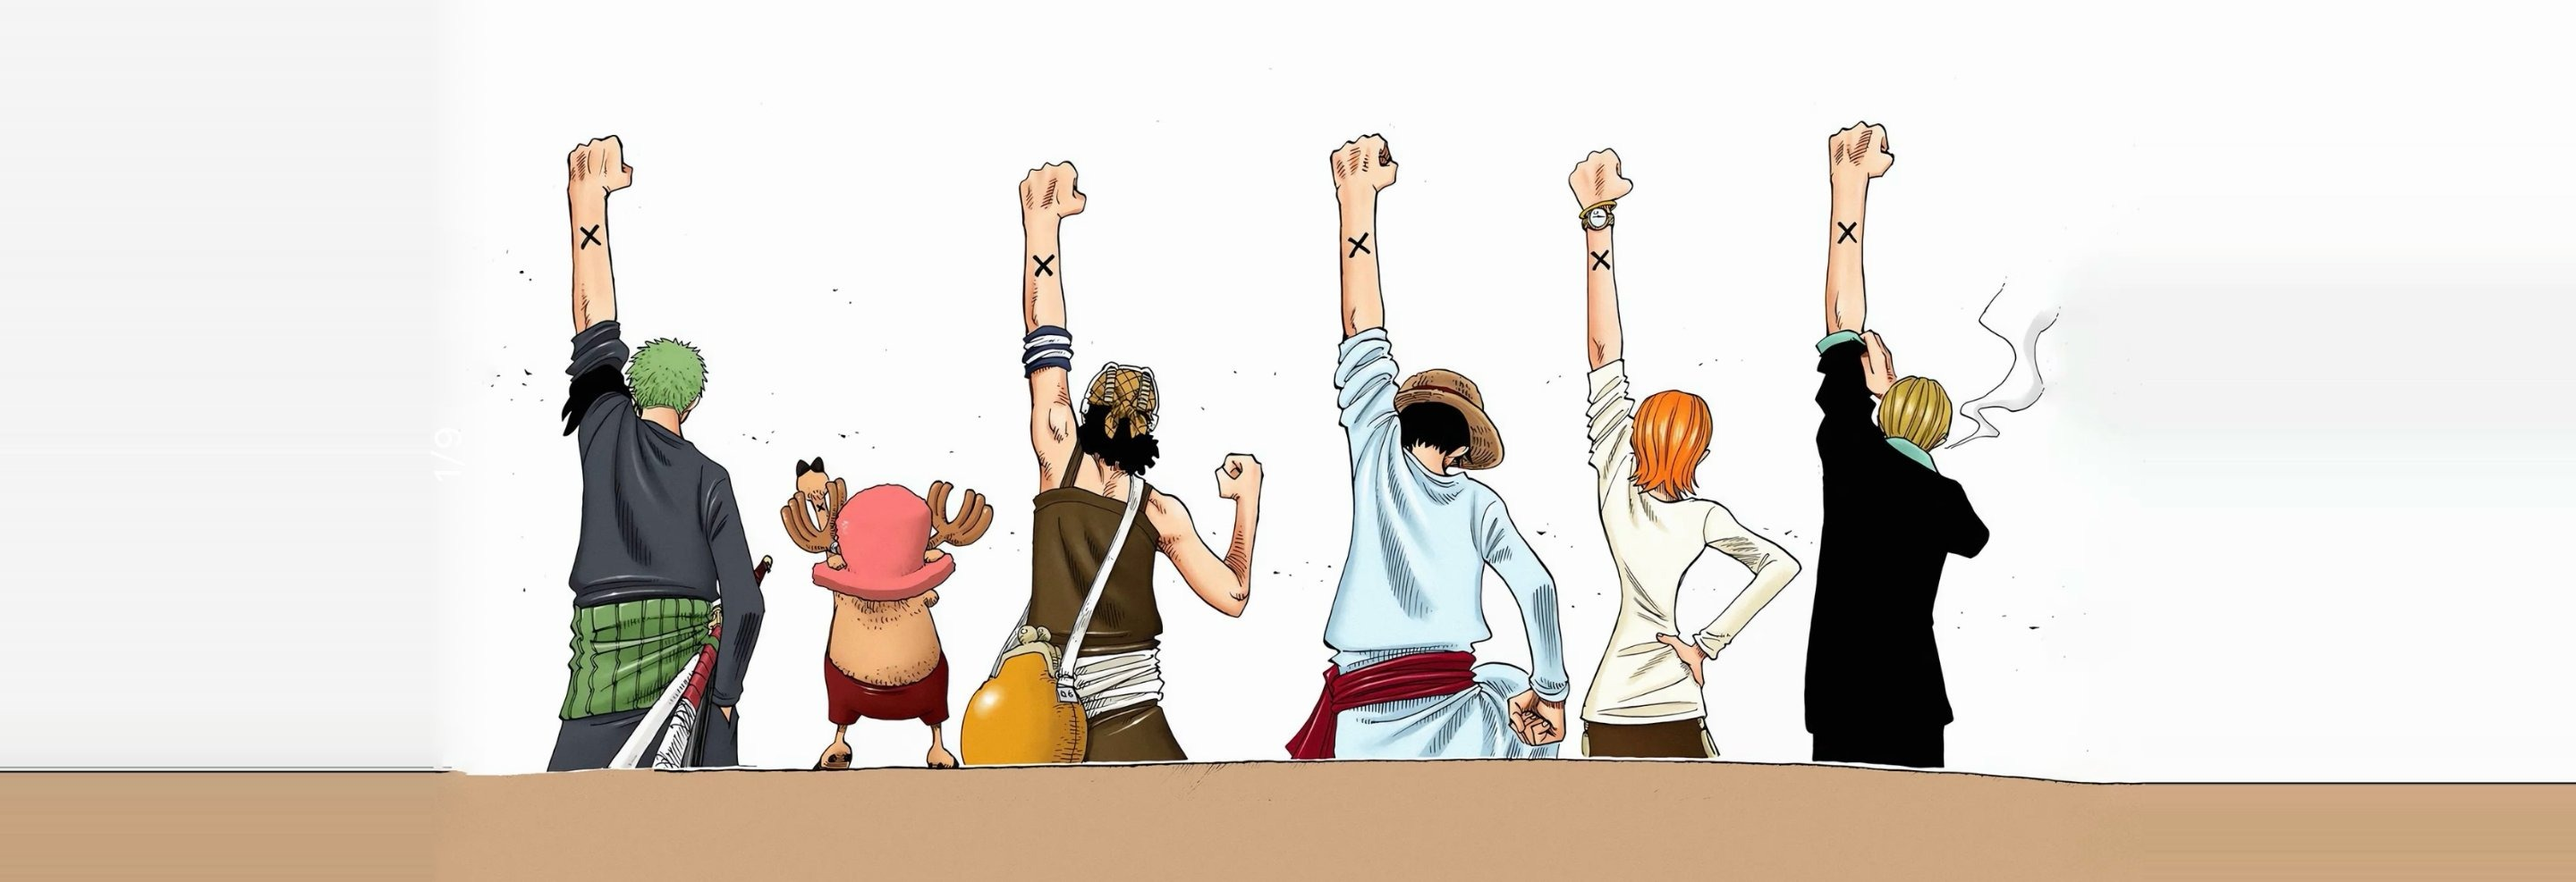
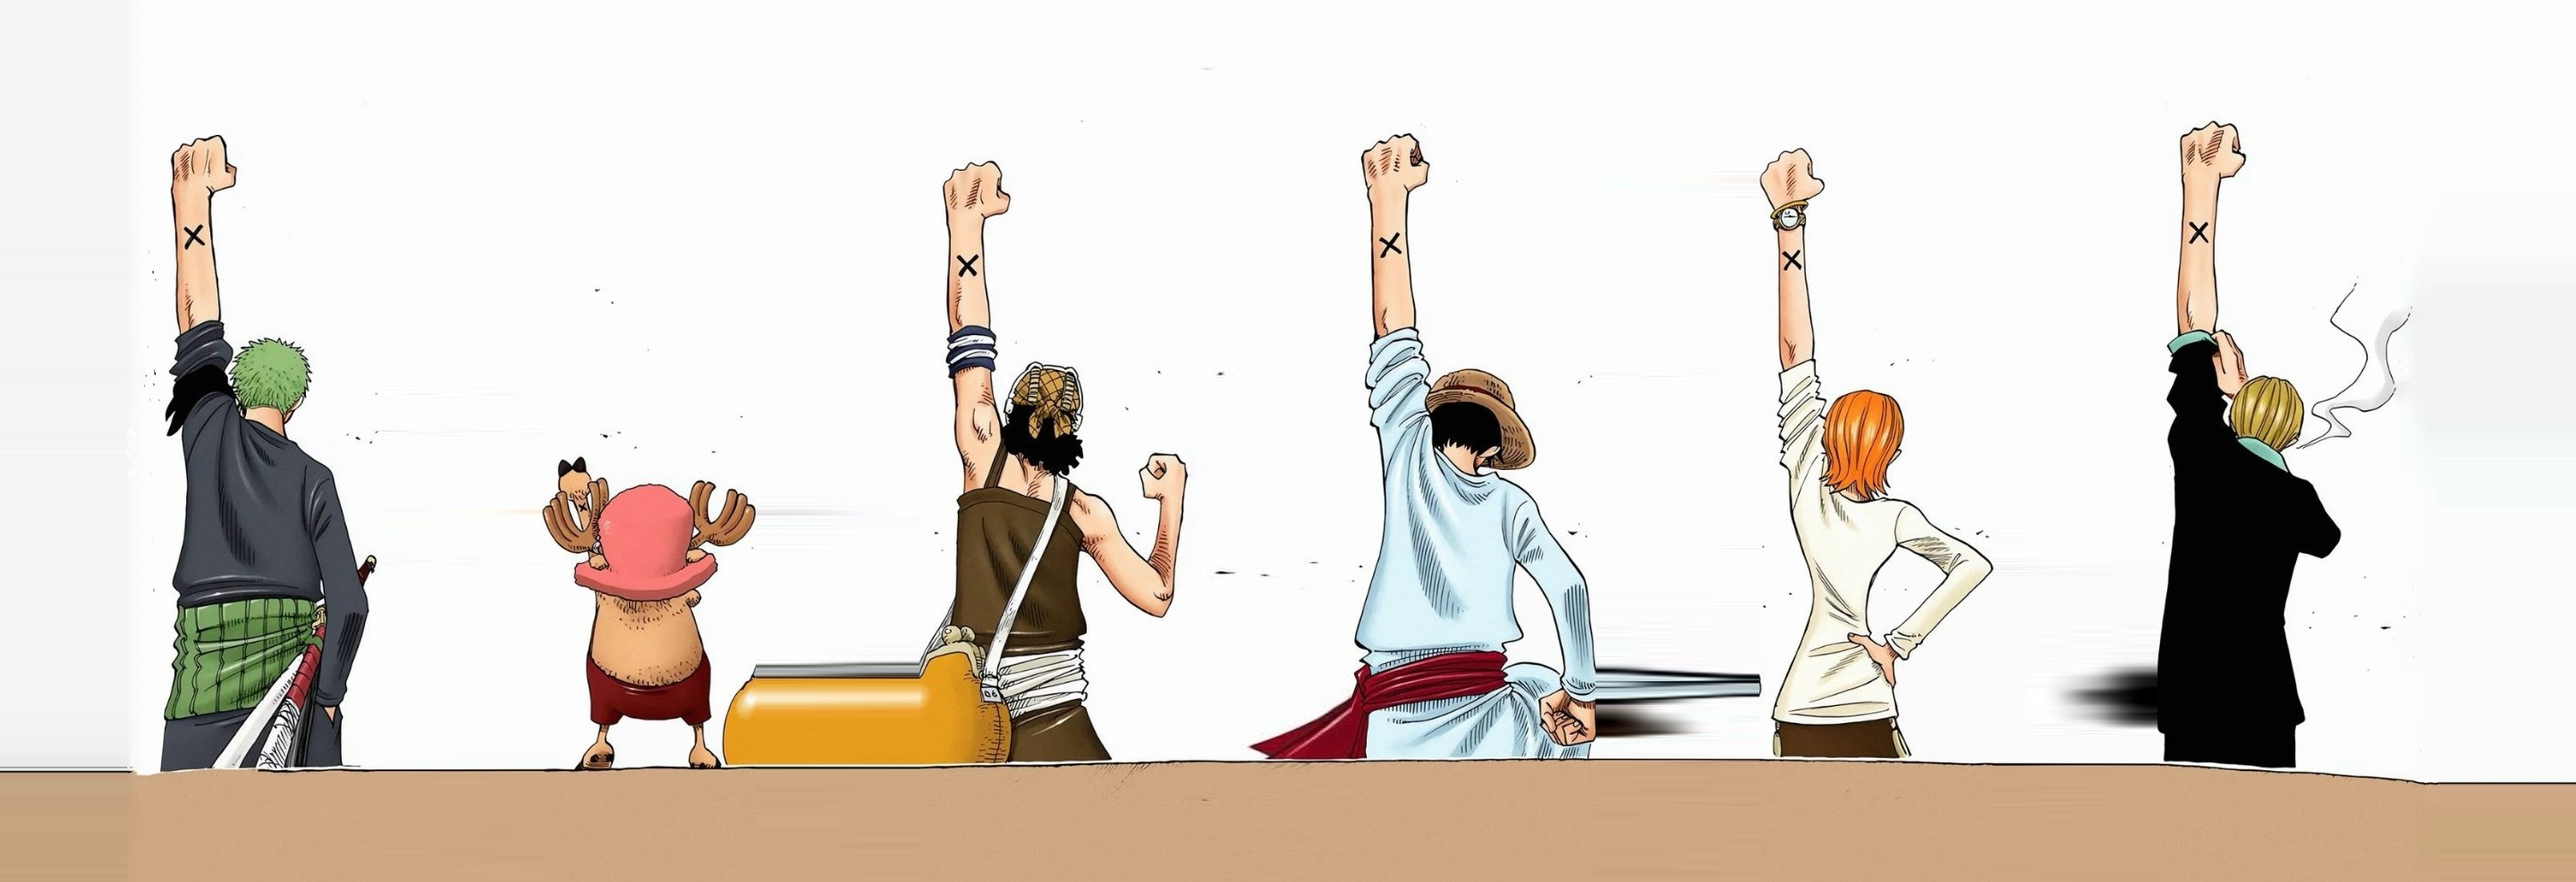
v48: 底部海贼王图人物均匀分开，减少两侧留白

Changed region(s): [[0.0312, 0.1216, 0.9375, 0.9119], [0.7812, 0.3647, 0.8125, 0.3951]]

diff --git a/dist/sw.js b/dist/sw.js
@@ -1,6 +1,6 @@
 // 离线缓存：在线时优先获取最新版；断网时回退到本地缓存
-// v47: 社媒内容移除抖音账号分析的待补充占位数据行
-const CACHE = 'wz-desk-v47';
+// v48: 底部海贼王图人物均匀分开，减少两侧留白
+const CACHE = 'wz-desk-v48';
 const FILES = ['./', './index.html', './icon.png', './manifest.webmanifest', './content.js', './en_practice.js',
   './assets/luffy.png', './assets/robin.png', './assets/zoro.png', './assets/sabo.png', './assets/garp.png',
   './assets/bottom_crew.jpg',

diff --git a/sw.js b/sw.js
@@ -1,6 +1,6 @@
 // 离线缓存：在线时优先获取最新版；断网时回退到本地缓存
-// v47: 社媒内容移除抖音账号分析的待补充占位数据行
-const CACHE = 'wz-desk-v47';
+// v48: 底部海贼王图人物均匀分开，减少两侧留白
+const CACHE = 'wz-desk-v48';
 const FILES = ['./', './index.html', './icon.png', './manifest.webmanifest', './content.js', './en_practice.js',
   './assets/luffy.png', './assets/robin.png', './assets/zoro.png', './assets/sabo.png', './assets/garp.png',
   './assets/bottom_crew.jpg',
